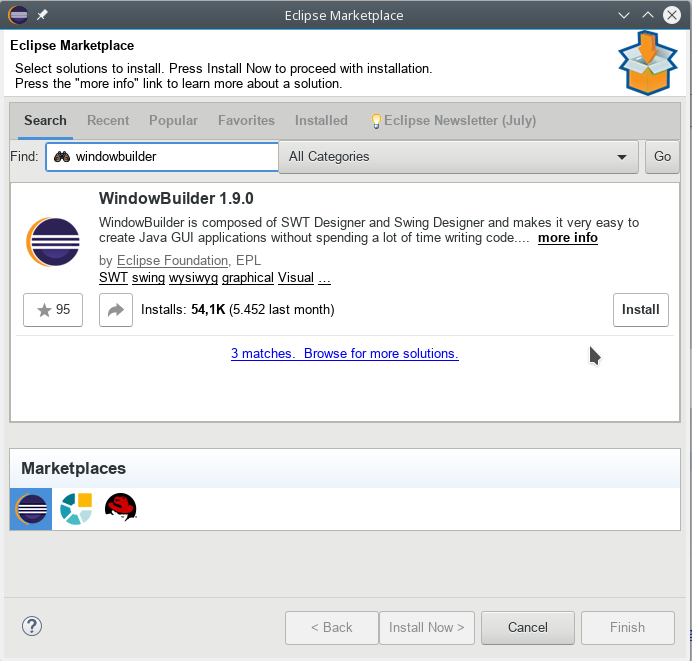
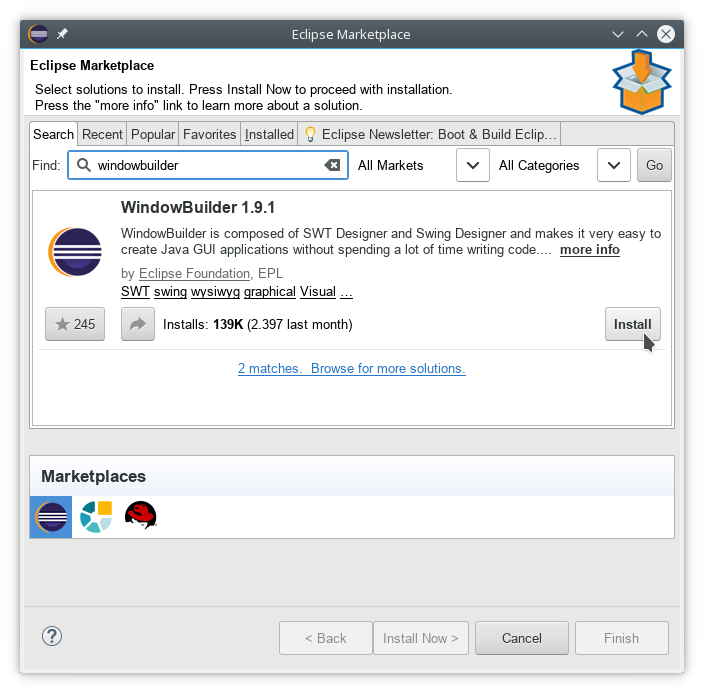
.

diff --git a/inf/SEKII/01_Vorbereitung/01_Eclipse.tex b/inf/SEKII/01_Vorbereitung/01_Eclipse.tex
@@ -163,9 +163,17 @@ Dort wählst du den 64-Bit Download von Eclipse, passend für dein Betriebssyste
 Heruntergeladen wird so der Eclipse-Installer, den du anschließend startest.
 
 Von den dort angebotenen Paketen solltest du \glqq Eclipse IDE for Java
-Developers\grqq\ auswählen. Wenn du mit Windows arbeitest, wird dir zum
-Abschluss der Installation angeboten, eine Verknüpfung auf dem Desktop anzulegen
-und einen Eintrag im Startmenü zu erzeugen.
+Developers\grqq\ auswählen (Abbildung \ref{fig:eclipse-installer}). 
+
+\begin{figure}[h]
+  \centering
+  \includegraphics[width=0.7\textwidth]{./inf/SEKII/01_Vorbereitung/Eclipse-Installer.png}
+  \caption{Preferences-Dialog für die Workspace-Einstellungen}
+  \label{fig:eclipse-installer}
+\end{figure}
+
+Wenn du mit Windows arbeitest, wird dir zum Abschluss der Installation angeboten, eine Verknüpfung 
+auf dem Desktop anzulegen und einen Eintrag im Startmenü zu erzeugen.
 
 
 \section{Eclipse konfigurieren}
@@ -209,7 +217,7 @@ Häkchen setzen vor \myPMI{Refresh using native hooks or polling}.
   \label{fig:eclipse-workspace-preferences}
 \end{figure}
 
-\afterpage{\clearpage}
+%\afterpage{\clearpage}
 
 \subsection{Git-Funktionalität in Eclipse konfigurieren und dein eigenes
 Repository einbinden}
@@ -590,7 +598,7 @@ werden sollen.
 
 \subsection{Installation des WindowsBuilder Plugins}
 
-Im aktuellen Eclipse Release (Oxygen) ist das Plugin WindowsBuilder leider noch
+Im aktuellen Eclipse Release (Photon) ist das Plugin WindowsBuilder leider noch
 nicht vorinstalliert. Ab Q1 werdet ihr dieses Plugin jedoch brauchen.
 
 \myPMI{Help} $\rightarrow$ \myPMI{Eclipse Marketplace\ldots}
@@ -600,10 +608,10 @@ durchsuchen.
 
 Anschließend kannst du das WindowBuilder Plugin installieren lassen:
 
-\begin{figure}[h]
+\begin{figure}
   \centering
    \includegraphics[width=0.6\textwidth]{./inf/SEKII/01_Vorbereitung/windowbuilder_plugin.png}
-   \caption{WindowsBuilder Plugin installieren (falls nötig)}
+   \caption{WindowsBuilder Plugin installieren}
    \label{fig:windowbuilder-plugin}
 \end{figure}
 
@@ -617,7 +625,7 @@ MySQL-Java-Connectors}\label{mysql-connector-installation}
 
 Zunächst musst du den Connector herunter laden:
 
-\url{https://www.dropbox.com/s/kjolp95yfpu6fyu/mysql-connector-java-8.0.11.jar?dl=0}
+\url{https://www.dropbox.com/s/z6qucwg0sszwp0s/mysql-connector-java-8.0.12.jar?dl=0}
 
 (Sobald wir im Unterricht bei SQL angekommen sind, wirst du diese Datei auch in
 unserem Kurs-Repository finden. Und bis dahin brauchst du dich um die
@@ -633,88 +641,155 @@ $\rightarrow$ im folgenden Dialog die gewünschte Datei auswählen $\rightarrow$
 Rechtsklick auf deinen Projekt-Ordner im Package-Explorer $\rightarrow$
 \myPMI{Build Path} $\rightarrow$ \myPMI{Configure Build Path \ldots}
 $\rightarrow$ Wähle den Reiter \myPMI{Libraries} $\rightarrow$ \myPMI{Add JARs
-\ldots} $\rightarrow$ wähle \myFile{mysql-connector-java-8.0.11.jar} in
+\ldots} $\rightarrow$ wähle \myFile{mysql-connector-java-8.0.12.jar} in
 deinem Projekt $\rightarrow$ \myPMI{OK} $\rightarrow$ \myPMI{OK}.
 
-\subsection{Plugin „SQL-Explorer“ installieren und konfigurieren}
+\subsection{Installation des DBeaver Plugins}
 
-\myPMI{Help} $\rightarrow$ \myPMI{Install New Software \ldots} $\rightarrow$
-\myPMI{Add} $\rightarrow$ bei Name: \myUserInput{SQL-Explorer} und bei Location:
+Analog zur Installation des WindowsBuilder Plugins werden wir in Q2 auch noch 
+das DBeaver Plugin installieren müssen.
 
-\url{http://eclipsesql.sourceforge.net/} 
+\myPMI{Help} $\rightarrow$ \myPMI{Eclipse Marketplace\ldots}
 
-eintragen. Mit \myPMI{OK} bestätigen. Wenn man den nun sichtbaren Eintrag für
-\myPMI{SQL Explorer} auffaltet, sieht man möglicherweise mehrere Versionen des
-Plugins. Davon die aktuellste auwählen. Mit \myPMI{Next} bestätigen. Nochmals
-\myPMI{Next}. Dann \myPMI{I accept the terms of the license agreement}
-$\rightarrow$ \myPMI{Finish}. Die im Installationsverlauf erscheinende Warnung
-bezüglich der Installation nicht-signierter Inhalte mit \myPMI{OK} quittieren.
-Ebenso den Hinweis auf den nötigen Neustart von Eclipse.
-
-Anschließend muss noch die Verbindung zum lokalen MySQL-Server konfiguriert
-werden:
-
-\myPMI{Windows} $\rightarrow$ \myPMI{Show View} $\rightarrow$ \myPMI{Other
-\ldots} $\rightarrow$ \myPMI{SQL Explorer} $\rightarrow$ \myPMI{Connections}
-$\rightarrow$ \myPMI{OK} Im nun verfügbaren Connections-Tab (unten)
-$\rightarrow$ Rechtsklick $\rightarrow$ \myPMI{New Connection Profile \ldots}
-$\rightarrow$ Name: \myUserInput{MySQL localhost} $\rightarrow$ \myPMI{Add/Edit
-Drivers} $\rightarrow$ \myPMI{SQL Explorer} auffalten $\rightarrow$ \myPMI{JDBC
-Drivers} $\rightarrow$ Doppelklick auf  \myPMI{MySQL Driver} $\rightarrow$
-\myPMI{Extra Class Path} $\rightarrow$ \myPMI{Add JARs \ldots} $\rightarrow$
-Den Pfad zu \myFile{mysql-connector-java-8.0.11.jar} (oder neuere Version)
-auf der lokalen Platte (vermutlich in einem Unter-Ordner des workspace-Ordners)
-auswählen.
-
-Siehe Abbildung \ref{fig:mysql-connector}.
+Im Suchfeld gibst du \myPMI{DBeaver} ein und lässt den Marktplatz
+durchsuchen (siehe Abbildung \ref{fig:dbeaver-plugin}).
 
 \begin{figure}[h]
   \centering
-   \includegraphics[width=1.0\textwidth]{./inf/SEKII/01_Vorbereitung/MySQL-Driver.png}
-   \caption{Auswahl des MySQL-Connectors}
-   \label{fig:mysql-connector}
+   \includegraphics[width=0.6\textwidth]{./inf/SEKII/01_Vorbereitung/dbeaver_plugin.png}
+   \caption{DBeaver Plugin installieren}
+   \label{fig:dbeaver-plugin}
 \end{figure}
 
-$\rightarrow$ \myPMI{List Drivers} $\rightarrow$ aus der
-Dropdown-Liste für \myPMI{Driver Class Name} den Eintrag
-\myUserInput{com.mysql.jdbc.Driver} auswählen $\rightarrow$ \myPMI{OK}
-$\rightarrow$ \myPMI{OK} $\rightarrow$ Driver: \myPMI{MySQL Driver}
-$\rightarrow$ Häkchen Setzen bei \myPMI{Auto Logon} und \myPMI{Auto Commit}
-$\rightarrow$ Anpassen der URL auf \myUserInput{jdbc:mysql://localhost:3306/}
-$\rightarrow$ \myPMI{User:} „root“ $\rightarrow$ \myPMI{Password:} „root“
-$\rightarrow$\myPMI{OK}.
+Nun kannst du das DBeaver Plugin installieren lassen:
 
-Siehe Abbildung \ref{fig:sql-explorer-connection-profile}.
+$\rightarrow$ \myPMI{Confirm} $\rightarrow$ Häkchen setzen vor
+\myPMI{Accept Licence Agreement} $\rightarrow$ \myPMI{Finish} $\rightarrow$
+\myPMI{Restart Now}
+
+Nach erfolgter Installation des Plugins und anschließendem Neustart von Eclipse,
+fügst du mit \myPMI{Window} $\rightarrow$ \myPMI{Show View} $\rightarrow$
+\myPMI{Other \ldots} $\rightarrow$ \myPMI{Database} $\rightarrow$ 
+\myPMI{Database Navigator} $\rightarrow$ \myPMI{Open} den Database Navigator View 
+hinzu (er wird als zusätzlicher Tab unten in Eclipse angezeigt).
+
+Dort kannst du -- einen laufenden MySQL- oder MariaDB-Server vorausgesetzt -- die
+Verbindung (Connection) zum Datenbankserver konfigurieren:
+
+Rechtsklick im Database Navigator View $\rightarrow$ \myPMI{Create New Connection}. 
+Aus der nun angebotenen langen Liste wähltst du \myPMI{MySQL 8.x} aus und bestätigst 
+mit \myPMI{Next}. Im folgenden Dialog gibst du für \myPMI{Username} und 
+\myPMI{Passwort} jeweils \myUserInput{root} ein.
+
+Als \myPMI{Server Time Zone} wähltst du im selben Dialog \myUserInput{Europe/Berlin}
+aus (siehe Abbildung \ref{fig:dbeaver_connection_settings}).
 
 \begin{figure}[h]
   \centering
-   \includegraphics[width=0.7\textwidth]{./inf/SEKII/01_Vorbereitung/SQL-Explorer_Connection-Profile.png}
-   \caption{Einstellungsdialog für die Verbindung zum lokalen MySQL-Server}
-   \label{fig:sql-explorer-connection-profile}
+   \includegraphics[width=0.6\textwidth]{./inf/SEKII/01_Vorbereitung/dbeaver_connection_settings.png}
+   \caption{Verbindung zum Datenbankserver konfigurieren}
+   \label{fig:dbeaver_connection_settings}
 \end{figure}
 
-Ab sofort werden SQL-Skripte in Eclipse mit dem SQL-Explorer geöffnet. In diesem
-kann (einen lokal laufenden MySQL-Server vorausgesetzt)  dann einfach eine
-Verbindung zum lokalen MySQL-Server hergestellt werden. Im Drop-Down-Menü,
-links von \myPMI{Limit Rows} in der Menüzeile des SQL-Explorer Fensters kann
-dazu einfach der Eintrag \myPMI{MySQL localhost/root} ausgewählt werden.
+Als nächstes wähltst du \myPMI{Test Connection \ldots} aus: Eclipse (bzw.\ das DBeaver 
+Plugin) wird nun erkennen, dass ein Treiber für die Verbindung zum Datenbankserver
+fehlt. Ein entsprechender Download wird automatisch angeboten und von dir akzeptiert
+(Button \myPMI{Download}). Siehe Abbildung \ref{fig:dbeaver_download_driver}.
+
+\begin{figure}[h]
+  \centering
+   \includegraphics[width=0.6\textwidth]{./inf/SEKII/01_Vorbereitung/dbeaver_download_driver.png}
+   \caption{Treiber für die Verbindung zum Datenbankserver installieren lassen}
+   \label{fig:dbeaver_download_driver}
+\end{figure}
+
+Falls der Datenbankserver bereits installiert wurde und aktuell auch läuft, sollte 
+direkt im Anschluss an den Download des Treibers eine Erfolgsmeldung zum Test der 
+Verbindung zum Datenbankserver ausgegeben werden.
+
+Abschließend verlässt du den New Connection Dialog mit \myPMI{Next} $\rightarrow$ 
+\myPMI{Next} $\rightarrow$ \myPMI{Finish} ohne an den weiteren Einstellungen etwas zu 
+verändern.
+
+Die Verbindung zum lokalen Datenbankserver ist nun konfiguriert. Aktiviert wird sie
+über einen Rechtsklick auf den neuen Eintrag im Database Navigator View $\rightarrow$ 
+\myPMI{Connect}. Ein kleiner Haken vor dem Eintrag im Database Navigator View zeigt
+die bestehende Verbindung an.
+
+Ab sofort kannst du in Eclipse auch SQL Dateien bearbeiten: Entweder vorhandene Dateien 
+öffnen oder mit \myPMI{File} $\rightarrow$ \myPMI{New} $\rightarrow$
+\myPMI{Other \ldots} $\rightarrow$ \myPMI{General} $\rightarrow$ 
+\myPMI{File} eine neue Datei mit Dateiendung \myUserInput{*.sql} erstellen.
+Solche Dateien werden nun automatisch mit dem SQL Editor geöffnet.
+
+% \subsection{Plugin „SQL-Explorer“ installieren und konfigurieren}
+% 
+% \myPMI{Help} $\rightarrow$ \myPMI{Install New Software \ldots} $\rightarrow$
+% \myPMI{Add} $\rightarrow$ bei Name: \myUserInput{SQL-Explorer} und bei Location:
+% 
+% \url{http://eclipsesql.sourceforge.net/} 
+% 
+% eintragen. Mit \myPMI{OK} bestätigen. Wenn man den nun sichtbaren Eintrag für
+% \myPMI{SQL Explorer} auffaltet, sieht man möglicherweise mehrere Versionen des
+% Plugins. Davon die aktuellste auwählen. Mit \myPMI{Next} bestätigen. Nochmals
+% \myPMI{Next}. Dann \myPMI{I accept the terms of the license agreement}
+% $\rightarrow$ \myPMI{Finish}. Die im Installationsverlauf erscheinende Warnung
+% bezüglich der Installation nicht-signierter Inhalte mit \myPMI{OK} quittieren.
+% Ebenso den Hinweis auf den nötigen Neustart von Eclipse.
+% 
+% Anschließend muss noch die Verbindung zum lokalen MySQL-Server konfiguriert
+% werden:
+% 
+% \myPMI{Windows} $\rightarrow$ \myPMI{Show View} $\rightarrow$ \myPMI{Other
+% \ldots} $\rightarrow$ \myPMI{SQL Explorer} $\rightarrow$ \myPMI{Connections}
+% $\rightarrow$ \myPMI{OK} Im nun verfügbaren Connections-Tab (unten)
+% $\rightarrow$ Rechtsklick $\rightarrow$ \myPMI{New Connection Profile \ldots}
+% $\rightarrow$ Name: \myUserInput{MySQL localhost} $\rightarrow$ \myPMI{Add/Edit
+% Drivers} $\rightarrow$ \myPMI{SQL Explorer} auffalten $\rightarrow$ \myPMI{JDBC
+% Drivers} $\rightarrow$ Doppelklick auf  \myPMI{MySQL Driver} $\rightarrow$
+% \myPMI{Extra Class Path} $\rightarrow$ \myPMI{Add JARs \ldots} $\rightarrow$
+% Den Pfad zu \myFile{mysql-connector-java-8.0.12.jar} (oder neuere Version)
+% auf der lokalen Platte (vermutlich in einem Unter-Ordner des workspace-Ordners)
+% auswählen.
+% 
+% Siehe Abbildung \ref{fig:mysql-connector}.
+% 
+% \begin{figure}[h]
+%   \centering
+%    \includegraphics[width=1.0\textwidth]{./inf/SEKII/01_Vorbereitung/MySQL-Driver.png}
+%    \caption{Auswahl des MySQL-Connectors}
+%    \label{fig:mysql-connector}
+% \end{figure}
+% 
+% $\rightarrow$ \myPMI{List Drivers} $\rightarrow$ aus der
+% Dropdown-Liste für \myPMI{Driver Class Name} den Eintrag
+% \myUserInput{com.mysql.jdbc.Driver} auswählen $\rightarrow$ \myPMI{OK}
+% $\rightarrow$ \myPMI{OK} $\rightarrow$ Driver: \myPMI{MySQL Driver}
+% $\rightarrow$ Häkchen Setzen bei \myPMI{Auto Logon} und \myPMI{Auto Commit}
+% $\rightarrow$ Anpassen der URL auf \myUserInput{jdbc:mysql://localhost:3306/}
+% $\rightarrow$ \myPMI{User:} „root“ $\rightarrow$ \myPMI{Password:} „root“
+% $\rightarrow$\myPMI{OK}.
+% 
+% Siehe Abbildung \ref{fig:sql-explorer-connection-profile}.
+% 
+% \begin{figure}[h]
+%   \centering
+%    \includegraphics[width=0.7\textwidth]{./inf/SEKII/01_Vorbereitung/SQL-Explorer_Connection-Profile.png}
+%    \caption{Einstellungsdialog für die Verbindung zum lokalen MySQL-Server}
+%    \label{fig:sql-explorer-connection-profile}
+% \end{figure}
+% 
+% Ab sofort werden SQL-Skripte in Eclipse mit dem SQL-Explorer geöffnet. In diesem
+% kann (einen lokal laufenden MySQL-Server vorausgesetzt)  dann einfach eine
+% Verbindung zum lokalen MySQL-Server hergestellt werden. Im Drop-Down-Menü,
+% links von \myPMI{Limit Rows} in der Menüzeile des SQL-Explorer Fensters kann
+% dazu einfach der Eintrag \myPMI{MySQL localhost/root} ausgewählt werden.
 
 
 
 \section{Eclipse kennen lernen}
 
-Für die ersten Schritte in Eclipse empfehle ich dir
-
-\url{http://dl.dropbox.com/u/31241540/JavaBuch_Eclipse.html} 
-
-Dabei handelt es sich um ein Kapitel aus dem „Handbuch der Java-Programmierung“
-von Guido Krüger und Heiko Hansen. Dieses ist als HTML-Version kostenlos unter
-\url{http://www.javabuch.de/} zu finden oder als richtiges Buch (Addison-Wesley
-Verlag) auch zu kaufen.
-
-\begin{minipage}{\textwidth}
-Außerdem gibt es auf YouTube jede Menge Video-Tutorials zu Java mit Eclipse.
+Für die ersten Schritte in Eclipse empfehle ich dir Video-Tutorials zu Java mit Eclipse.
 Beispielsweise auch eine ganze Serie (von brauchbarer Qualität):
 
 \url{http://www.youtube.com/playlist?list=PL71C6DFDDF73835C2}
-\end{minipage}

diff --git a/inf/SEKII/32_SQL_Einfuehrung/02_Installationsanleitung.tex b/inf/SEKII/32_SQL_Einfuehrung/02_Installationsanleitung.tex
@@ -7,7 +7,7 @@
 Im Kursverzeichnis findest du im Ordner \myFile{32\_SQL\_Einfuehrung} und dort
 im Ordner \myFile{Installationsdateien}\footnote{oder alternativ auch hier:
 \url{https://dev.mysql.com/downloads/installer/}} die Datei
-\myFile{mysql-installer-web-community-8.0.11.0.msi}. Dabei handelt es sich um
+\myFile{mysql-installer-web-community-8.0.12.0.msi}. Dabei handelt es sich um
 ein kleines Windows-Programm welches den Download und die Installation der
 eigentlichen MySQL Programme bequem erledigt.
 
@@ -29,7 +29,7 @@ Konfiguration von Eclipse).
 Im selben Ordner wie zuvor den MySQL-Installer findest auch den MySQL
 JDBC-Connectors:
 
-\myFile{mysql-connector-java-8.0.11.jar}
+\myFile{mysql-connector-java-8.0.12.jar}
 
 Dieses Java Archiv muss in euer eigenes Java-Projekt in Eclipse eingebunden
 werden, damit ihr später aus eueren Java-Programmen heraus auf den MySQL-Server
@@ -38,7 +38,7 @@ zugreifen könnt. Siehe Kapitel \ref{mysql-connector-installation}.
 
 \subsubsection{Konfiguration in Eclipse}
 
-Die Konfiguration des SQL Explorer Plugins für Eclipse wird im Kapitel 1
+Die Konfiguration des DBeaver Plugins für Eclipse wird im Kapitel 1
 (Eclipse als Java-Entwicklungsumgebung) beschrieben.
 
 
